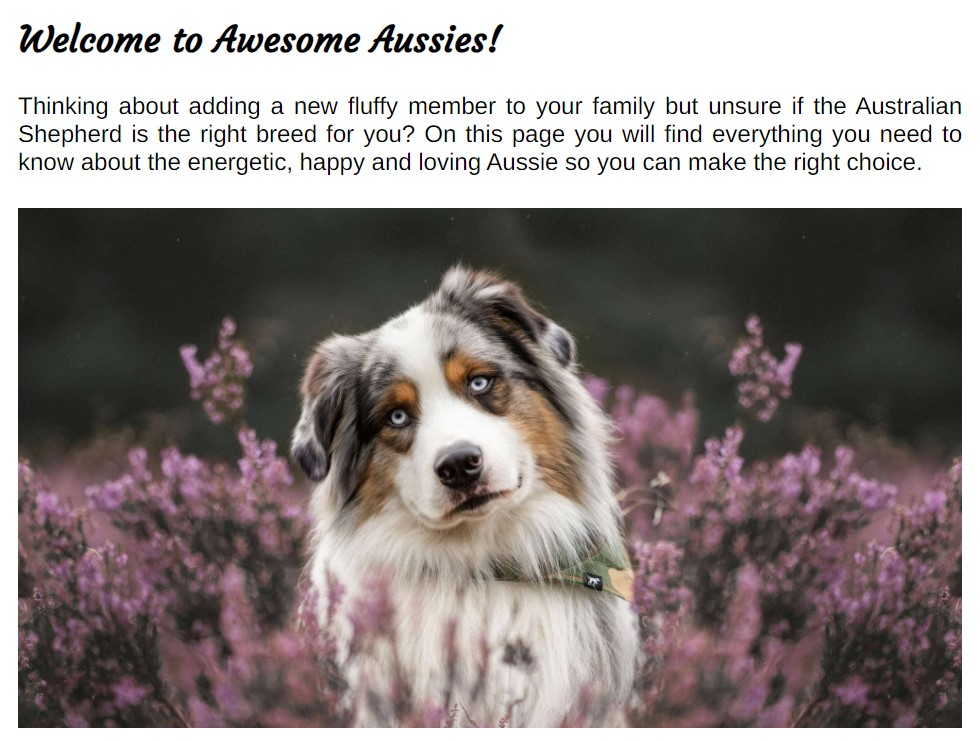
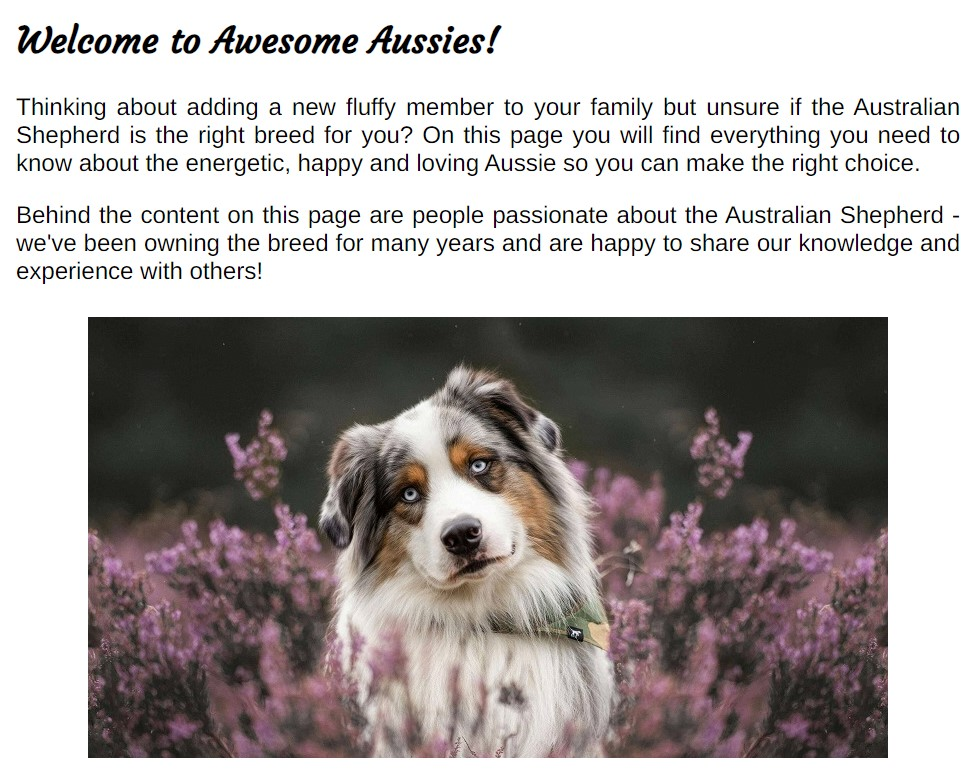
add more content and images to readme.md

diff --git a/index.html b/index.html
@@ -4,90 +4,98 @@
 <head>
   <meta charset="UTF-8">
   <meta name="viewport" content="width=device-width, initial-scale=1.0">
+
   <!--Metatags for search engines-->
   <meta name="description" content="Awesome Aussies. All you need to know about the dog breed Australian Shepherd.">
   <meta name="keywords"
     content="dog, breed, sheepdog, australian shepherd, aussie, puppies, marking, care, maintenance, exercise">
   <meta name="author" content="Sofias page about Australian Shepherds">
+
   <!--Title-->
   <title>Awesome Aussies</title>
+
   <!--Favicon-->
   <link rel="apple-touch-icon" sizes="180x180" href="assets/favicon/apple-touch-icon.png">
   <link rel="icon" type="image/png" sizes="32x32" href="assets/favicon/favicon-32x32.png">
   <link rel="icon" type="image/png" sizes="16x16" href="assets/favicon/favicon-16x16.png">
+
   <!--Stylesheet-->
   <link rel="stylesheet" href="assets/css/style.css">
 </head>
 
 <body>
-<div class="container">
-  <!--Header-->
-  <header>
-    <div class="header-container">
-      <h1 id="headline"><a href="index.html">Awesome Aussies</a></h1>
-      <p id="tagline-header">All you need to know about this intelligent and fun loving breed!</p>
-    </div>
+  <div class="container">
 
+    <!--Header-->
+    <header>
+      <div class="header-container">
+        <h1 id="headline"><a href="index.html">Awesome Aussies</a></h1>
+        <p id="tagline-header">All you need to know about this intelligent and fun loving breed!</p>
+      </div>
 
-    <!--Navigation menu-->
-    <input type="checkbox" id="nav-toggle" name="nav-toggle">
-    <label for="nav-toggle" class="nav-toggle-label">Menu</label>
-    <nav>
-      <ul id="navigation-menu">
-        <li class="menu-item" id="active"><a href="index.html">Home</a></li>
-        <li class="menu-item"><a href="about.html">About the breed</a></li>
-        <li class="menu-item"><a href="contact.html">Contact</a></li>
+      <!--Navigation menu-->
+      <input type="checkbox" id="nav-toggle" name="nav-toggle">
+      <label for="nav-toggle" class="nav-toggle-label">Menu</label>
+      <nav>
+        <ul id="navigation-menu">
+          <li class="menu-item" id="active"><a href="index.html">Home</a></li>
+          <li class="menu-item"><a href="about.html">About the breed</a></li>
+          <li class="menu-item"><a href="contact.html">Contact</a></li>
+        </ul>
+      </nav>
+    </header>
+
+    <!--Main content-->
+    <main>
+      <section id="welcome">
+        <h2>Welcome to Awesome Aussies!</h2>
+        <p>Thinking about adding a new fluffy member to your family but unsure if the Australian Shepherd is the right
+          breed for you? On this page you will find everything you need to know about the energetic, happy and
+          loving Aussie so you can make the right choice.</p>
+        <p>Behind the content on this page are people passionate about the Australian Shepherd - we've been owning
+          the breed for many years and are happy to share our knowledge and experience with others!</p>
+        <div>
+          <img src="assets/images/aussie_image_flowers.jpg" alt="australian shepherd sitting in flower field"
+            id="img-landing-page">
+        </div>
+      </section>
+
+      <!--Links to external kennels-->
+      <section>
+        <div id="kennels">
+          <h2>Kennels</h2>
+          <p>Below you will find links to some kennels that we know and love. Check them out if you're curious about
+            the process of buying a puppy of your own. Please send us a message through our
+            <a href="contact.html">Contact-form</a> if you want tips on more kennels worth a visit!
+          </p>
+        </div>
+        <div id="kennels-link">
+          <div><a href="https://www.tillyhills.se/" target="_blank">Tilly Hills</a></div>
+          <div><a href="https://kennel.sjoliden.se/" target="_blank">Sjolidens Kennel</a></div>
+          <div><a href="https://www.chessplayer.se/" target="_blank">Chess Player</a></div>
+        </div>
+      </section>
+    </main>
+
+    <!--Footer-->
+    <footer>
+      <!--Social Media links-->
+      <ul id="social-networks">
+        <li><a href="http://www.facebook.com" target="_blank" rel="noopener"
+            aria-label="Link to our Facebook page (opens in new tab)"><i class="fa-brands fa-square-facebook"></i></a>
+        </li>
+        <li><a href="http://www.instagram.com" target="_blank" rel="noopener"
+            aria-label="Link to our Instagram page (opens in new tab)"><i class="fa-brands fa-instagram"></i></a></li>
+        <li><a href="http://www.twitter.com" target="_blank" rel="noopener"
+            aria-label="Link to our Twitter/X page (opens in new tab)"><i class="fa-brands fa-twitter"></i></a>
+        </li>
+        <li><a href="http://www.youtube.com" target="_blank" rel="noopener"
+            aria-label="Link to our Youtube page (opens in new tab)"><i class="fa-brands fa-youtube"></i></a>
+        </li>
       </ul>
-    </nav>
-  </header>
+    </footer>
+  </div>
 
-  <!--Main content-->
-  <main>
-    <section id="welcome">
-      <h2>Welcome to Awesome Aussies!</h2>
-      <p>Thinking about adding a new fluffy member to your family but unsure if the Australian Shepherd is the right
-        breed for you? On this page you will find everything you need to know about the energetic, happy and
-        loving Aussie so you can make the right choice.</p>
-      <div>
-        <img src="assets/images/aussie_image_flowers.jpg" alt="australian shepherd sitting in flower field"
-          id="img-landing-page">
-      </div>
-    </section>
-
-    <!--Links to external kennels-->
-    <section>
-      <div id="kennels">
-        <h2>Kennels</h2>
-        <p>Below you will finds some links to kennels that we know and love. Check them out if you're curious about the
-          process of buying a puppy of your own!</p>
-      </div>
-      <div id="kennels-link">
-        <div><a href="https://www.tillyhills.se/" target="_blank">Tilly Hills</a></div>
-        <div><a href="https://kennel.sjoliden.se/" target="_blank">Sjolidens Kennel</a></div>
-        <div><a href="https://www.chessplayer.se/" target="_blank">Chess Player</a></div>
-      </div>
-    </section>
-  </main>
-
-  <!--Footer-->
-  <footer>
-
-    <!--Social Media links-->
-    <ul id="social-networks">
-      <li><a href="http://www.facebook.com" target="_blank" rel="noopener"
-          aria-label="Link to our Facebook page (opens in new tab)"><i class="fa-brands fa-square-facebook"></i></a>
-      </li>
-      <li><a href="http://www.instagram.com" target="_blank" rel="noopener"
-          aria-label="Link to our Instagram page (opens in new tab)"><i class="fa-brands fa-instagram"></i></a></li>
-      <li><a href="http://www.twitter.com" target="_blank" rel="noopener"
-          aria-label="Link to our Twitter/X page (opens in new tab)"><i class="fa-brands fa-twitter"></i></a>
-      </li>
-      <li><a href="http://www.youtube.com" target="_blank" rel="noopener"
-          aria-label="Link to our Youtube page (opens in new tab)"><i class="fa-brands fa-youtube"></i></a>
-      </li>
-    </ul>
-  </footer>
-</div>
   <!--Font Awesome kit-->
   <script src="https://kit.fontawesome.com/4b24704efa.js" crossorigin="anonymous"></script>
 

diff --git a/assets/css/style.css b/assets/css/style.css
@@ -327,6 +327,11 @@ footer {
       font-size: 150%;
     }
 
+    /*Links to external kennels*/
+    #kennels-link div {
+      font-size: 1.5rem;
+    }
+
     /*About page*/
     .about-text,
     #welcome,
@@ -387,7 +392,7 @@ footer {
       font-size: 1.7rem;
     }
 
-    #kennels-link {
+    #kennels-link div {
       font-size: 2rem;
     }
 

diff --git a/README.md b/README.md
@@ -49,35 +49,40 @@ __Links to kennels__
 
 + Below the text and image on the home page are some links to different kennels, if the user is interested in learning more about the buying process itself and have come a little further in their descision making. 
 
-+ All the external links open up in a new tab so that the user still have easy access to the page.
++There is also an embedded link to the Contact page if the user is interested in tips on more kennels.
+
++ All the external links open up in a new tab so that the user still have easy access to the original webpage.
 
 + The links have the same color and font as other elements on the page and lives in a responsive flexbox to adjust from row to column depending on device.
 
+! [printscreen links to kennels](assets/images_readme/kennels_links.jpg)
 
 
-
-
-
-For this page the index.html file implements the content with additional styling found in the style.css file deployed through the assets-folder. 
-
+For the entire home page the index.html file implements the content, with additional styling found in the style.css file deployed through the assets-folder. 
 
 
 __The Footer__
 
-+ The footer section includes links to different social media platforms - relevant to the content of the website. They open in a new tab to allow for easy navigation and so that the user can easily finds it’s way back to the webpage without having to use the ”back” tab.
-+ If the site were to be deployed and managed for a long period of time – the footer with it’s social media icons would lead the user to different forums and member pages on Facebook with the concept of ”Awesome Aussies” in mind – a place for the user to connect with likeminded and a place to ask all questions concerning their dogs. 
++ The footer section includes links to different social media platforms - relevant to the content of the website. They open in a new tab to allow for easy navigation so that the user can easily finds it’s way back to the webpage without having to use the ”back” tab.
 
-Again the same color used as in the navigation menu and other features on the page
++ If the site were to be deployed "for real" and managed for a long period of time – the footer with it’s social media icons would lead the user to different forums and member pages on Facebook, Instagram and so on with the concept of ”Awesome Aussies” in mind – a place for the user to connect with like-minded and a place to ask other owners all questions concerning their dogs. But for now the social media links directs the user to the offical sites.
+
++ Again the same color as in the navigation menu and other features on the page is used. 
 
 ![printscreen footer](assets/images_readme/footer.jpg)
 
 
 __About the breed Page__
 
-+ This page is probably the most valuable page to the user, since it contains
++ This page is probably the most valuable page to the user, since it contains all the useful information about the breed. 
 
-+ The content of the about-page comes from the 
++ The content of the about-page comes from other pages on the web (see content credits further down), since the function and purpose rather than the actual content of the text is in focus for this assignment. 
 
++ Evry paragraph has a picture below it so that the user can rest their eyes before jumping on the next section of text. The images are responsive in size to adjust according to screen size. 
+
++ This page gets it's text and image content from the about.html file, with additional styling form style.css. All images are found in the image folder. 
+
+![printscreen of content on the about page](assets/images_readme/contet_about_page.jpg)
 
 
 __Contact Page__
